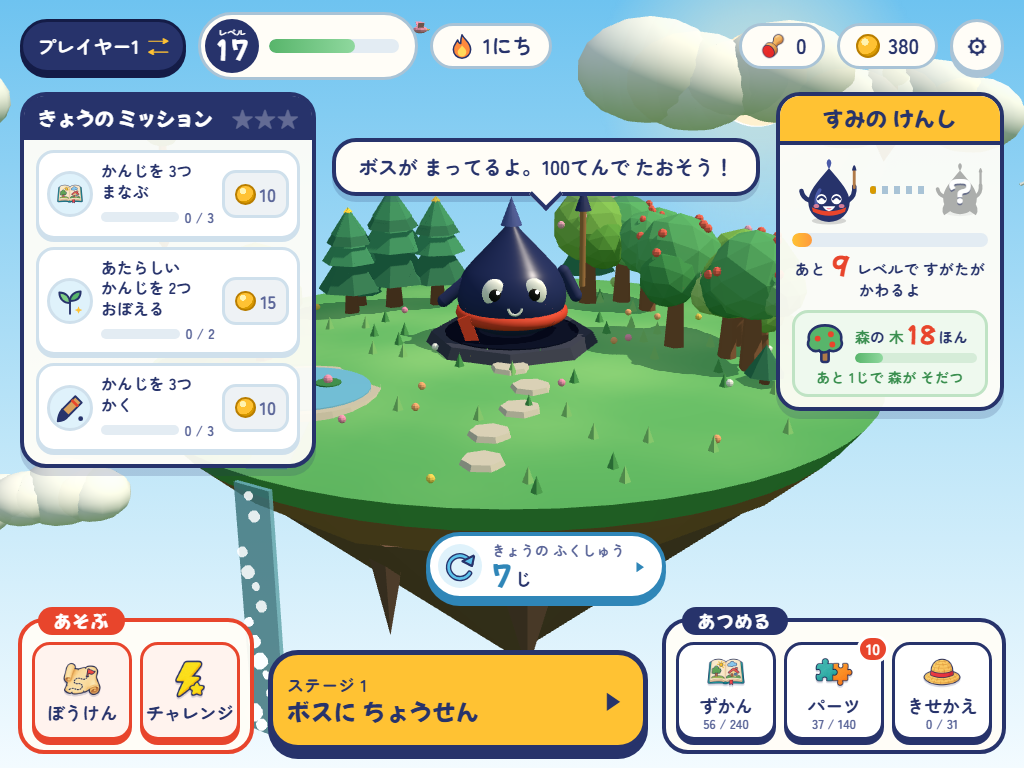
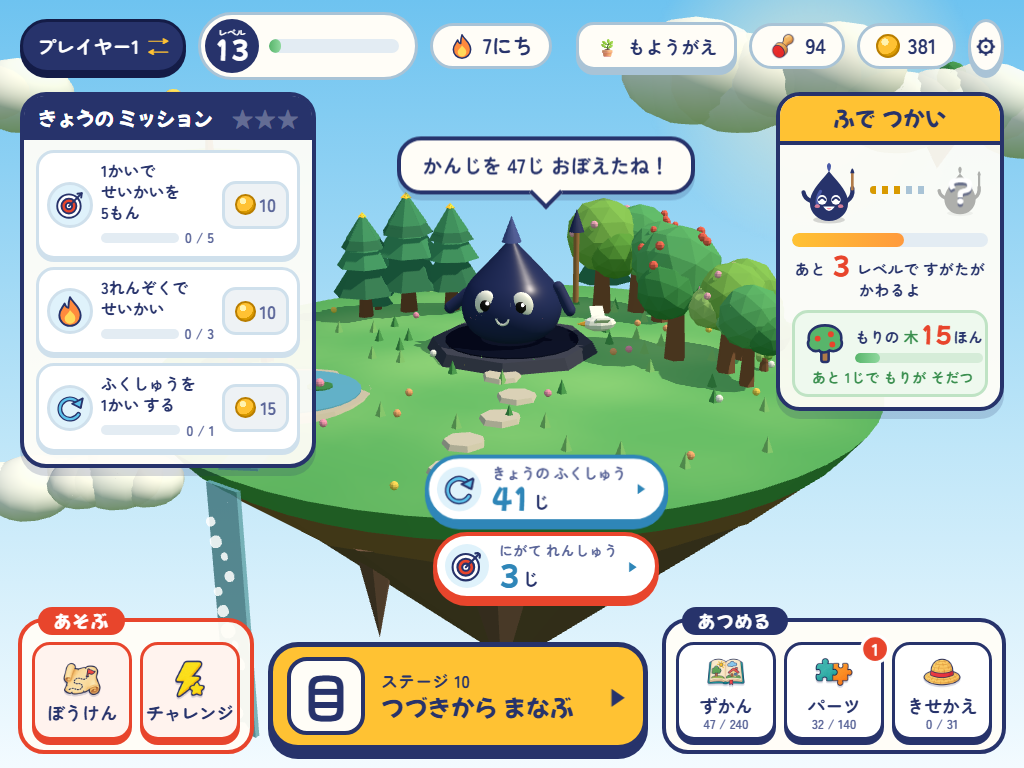
docs: retake README screenshots with a script
画面写真5まいを いまの版で撮りなおし、撮りなおす スクリプト(scripts/screenshots.mjs)を足す

diff --git a/README.md b/README.md
@@ -16,7 +16,7 @@
 | なりたちの物語 | ぼうけん |
 |---|---|
 | ![休: 人が木にもたれて ひと休み](docs/screenshots/story.png) | ![ぼうけんの地図](docs/screenshots/map.png) |
-| 部位を絵で見せ、物語で字の形につなげる | 5字で1ステージ。エリアの まんなかに 中ボス、さいごに ラスボス |
+| 絵が動いて、さいごに そのまま字になる(240字 ぜんぶ) | 5字で1ステージ。エリアの まんなかに 中ボス、さいごに ラスボス |
 
 | パーツずかん | 保護者の方へ |
 |---|---|
@@ -36,6 +36,7 @@
 | おうちの方 | 子どもごとの記録、ボスの問題数と回数の設定。1台で6人まで使える |
 
 変更の記録は [CHANGELOG.md](CHANGELOG.md) にあります。
+上の画面写真(`docs/screenshots/`)は `node scripts/screenshots.mjs` で撮りなおせます。
 
 ## 使い方
 
